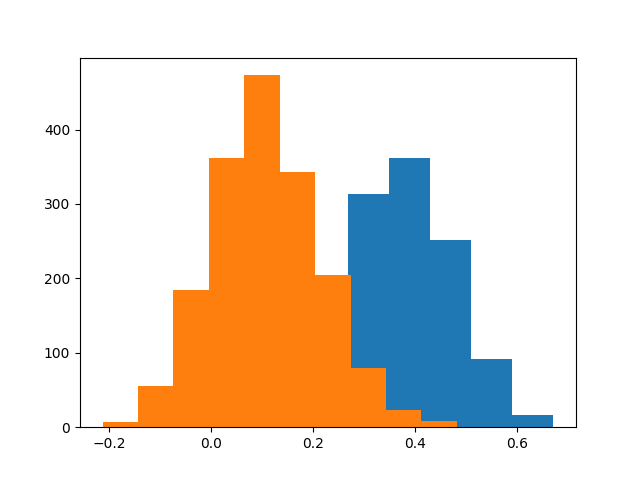
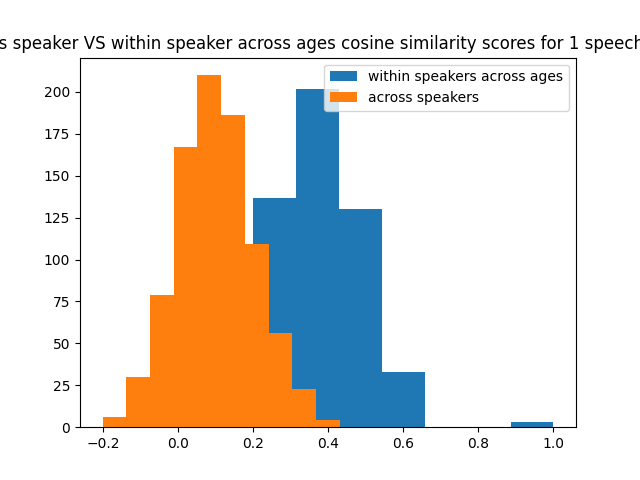
updated histograms, added aoc curves

diff --git a/scripts/embs_within_age_within_speaker.py b/scripts/embs_within_age_within_speaker.py
@@ -7,6 +7,9 @@ from sklearn.metrics.pairwise import cosine_similarity
 from functools import reduce
 import matplotlib.pyplot as plt
 import numpy as np
+from sklearn.metrics import roc_curve, auc
+from scipy.interpolate import interp1d
+from scipy.optimize import brentq
 
 scripts_dir = os.getcwd()
 os.chdir("../data")
@@ -19,16 +22,16 @@ os.chdir(scripts_dir)
 
 def get_cossim_df(num_pairs, parquet_path, save_path):
     print(f"Processing {save_path}")
-
+    #
     NUM_PAIRS = num_pairs
     df = pd.read_parquet(os.path.join(meta_dir, parquet_path))
-#
+    #
     danfs_to_use = set()
     for i in range(1, NUM_PAIRS+1):
         danfs_to_use.update(set(reduce(lambda x, y: list(x) + list(y), list(map(set, df[f"pair_{i}"].tolist())))))
-#
+    #
     dokids_to_use = set(i.split("_")[0] for i in danfs_to_use)
-#
+    #
     for speech_length in speech_lengths:
         print(f"Processing {speech_length}")
         length_dir = os.path.join(data_dir, str(speech_length))
@@ -43,26 +46,242 @@ def get_cossim_df(num_pairs, parquet_path, save_path):
         for i in range(1, NUM_PAIRS+1):
             df[f"score_{i}_{speech_length}"] = df[f"pair_{i}"].apply(lambda y: cosine_similarity(*list(map(lambda x: embs[x], y)))[0][0])
         df[f"score_mean_{speech_length}"] = df[[f"score_{i}_{speech_length}" for i in range(1, NUM_PAIRS+1)]].apply(lambda x: sum(x)/NUM_PAIRS, axis=1)
-#
-    for speech_length in speech_lengths:
-        plt.hist(df[f"score_mean_{speech_length}"].tolist())
-        plt.title(f'{(" ").join(save_path.split("_"))} cosine similarity scores for {speech_length} speech length')
-        plt.savefig(os.path.join(results_dir, f"{save_path}_{speech_length}_cossim_score.png"))
+        #
+    if GENERATE_GRAPHS:
+        for speech_length in speech_lengths:
+            plt.hist(df[f"score_mean_{speech_length}"].tolist())
+            plt.title(f'{(" ").join(save_path.split("_"))} cosine similarity scores for {speech_length} speech length')
+            plt.savefig(os.path.join(results_dir, f"{save_path}_{speech_length}_cossim_score.png"))
+            plt.close()
+        #
+        lesbian_flag = [(213, 45, 0), (239, 118, 39), (255, 154, 86), (230, 230, 230), (209, 98, 164), (181, 86, 144), (163, 2, 98)]
+        for i, speech_length in enumerate(speech_lengths):
+            plt.hist(df[f"score_mean_{speech_length}"].tolist(), label=f"{speech_length}",
+            bins=np.arange(0, 1, 0.02), color=tuple(map(lambda x: x/255, lesbian_flag[i]))),
+        plt.title(f'{(" ").join(save_path.split("_"))} cosine similarity scores')
+        plt.legend()
+        plt.savefig(os.path.join(results_dir, f"{save_path}_all_cossim_score.png"))
         plt.close()
-#
-    lesbian_flag = [(213, 45, 0), (239, 118, 39), (255, 154, 86), (230, 230, 230), (209, 98, 164), (181, 86, 144), (163, 2, 98)]
-    for i, speech_length in enumerate(speech_lengths):
-        plt.hist(df[f"score_mean_{speech_length}"].tolist(), label=f"{speech_length}",
-        bins=np.arange(0, 1, 0.02), color=tuple(map(lambda x: x/255, lesbian_flag[i]))),
-    plt.title(f'{(" ").join(save_path.split("_"))} cosine similarity scores')
-    plt.legend()
-    plt.savefig(os.path.join(results_dir, f"{save_path}_all_cossim_score.png"))
-    plt.close()
-    
+        #
     print()
     return df
 
+
+def get_best_threshold_n_roc(df_within, df_across, NUM_PAIRS=3):
+    """get metrics when comparing (across speakers) vs (within speakers at the same age)"""
+    scores = dict()
+    for speech_length in speech_lengths:
+        within_scores = list(reduce(lambda x, y: x + y, [df_within[f"score_{i}_{speech_length}"].tolist() for i in range(1, NUM_PAIRS+1)]))
+        across_scores = df_across[f"score_1_{speech_length}"].tolist()
+        across_n_within_age_scores = across_scores + within_scores
+        true_scores = [0 for _ in range(len(across_scores))] + [1 for _ in range(len(within_scores))]
+        fpr, tpr, thresholds = roc_curve(true_scores, across_n_within_age_scores, pos_label=1)
+        roc_auc = auc(fpr, tpr)
+        #
+        eer = brentq(lambda x : 1. - x - interp1d(fpr, tpr)(x), 0., 1.)
+        threshold = interp1d(fpr, thresholds)(eer)
+        threshold = float(threshold)
+        #
+        scores[f"{speech_length}"] = (threshold, (fpr, tpr, thresholds))
+        #
+        if GENERATE_GRAPHS:
+            plt.title(f'ROC curve for {speech_length} speech length')
+            plt.plot(fpr, tpr, 'b', label = 'AUC = %0.2f' % roc_auc)
+            plt.legend(loc = 'lower right')
+            plt.plot([0, 1], [0, 1],'r--')
+            plt.xlim([0, 1])
+            plt.ylim([0, 1])
+            plt.ylabel('True Positive Rate')
+            plt.xlabel('False Positive Rate')
+            plt.savefig(os.path.join(results_dir, f"within_speaker_within_age_VS_across_speaker_{speech_length}_AOC_CURVE.png"))
+            plt.close()
+            #
+    return scores
+
+
+def vary_threshold_graph(df_within, df_across, NUM_PAIRS=3):
+    """get metrics when comparing (across speakers) vs (within speakers at the same age)"""
+    scores = dict()
+    for speech_length in speech_lengths:
+        within_scores = list(reduce(lambda x, y: x + y, [df_within[f"score_{i}_{speech_length}"].tolist() for i in range(1, NUM_PAIRS+1)]))
+        within_max = max(within_scores)
+        across_scores = df_across[f"score_1_{speech_length}"].tolist()
+        across_min = min(across_scores)
+        #
+        threshold_scores = []
+        for threshold in np.arange(-0.2, 1.01, 0.01):
+            thresh_across_scores = [1 if i >= threshold else 0 for i in across_scores]
+            thresh_within_scores = [1 if i >= threshold else 0 for i in within_scores]
+            across_n_within_age_scores = thresh_across_scores + thresh_within_scores
+            true_scores = [0 for _ in range(len(thresh_across_scores))] + [1 for _ in range(len(thresh_within_scores))]
+            accuracy = sum([1 if across_n_within_age_scores[i] == true_scores[i] else 0 for i in range(len(true_scores))])/len(true_scores)
+            false_negs = sum([1 if (across_n_within_age_scores[i] != true_scores[i]) and (true_scores[i] == 1) else 0
+                              for i in range(len(true_scores))])
+            fnr = false_negs/len(thresh_within_scores)
+            false_poss = sum([1 if (across_n_within_age_scores[i] != true_scores[i]) and (true_scores[i] == 0) else 0
+                              for i in range(len(true_scores))])
+            fpr = false_poss/len(thresh_across_scores)
+            data = (threshold, accuracy, false_negs, false_poss, fnr, fpr)
+        # append data points to list
+            # the list should start with the first threshold that yields no false negatives
+            # if false_negs == 0:
+            if threshold <= across_min:
+                threshold_scores = [data]
+            # the list shold end with the last threshold that yields no false positives (I think?)
+            # elif false_poss == 0:
+            elif threshold > within_max:
+                threshold_scores.append(data)
+                break
+            else:
+                threshold_scores.append(data)
+            #
+        scores[f"{speech_length}"] = threshold_scores
+        #
+        if GENERATE_GRAPHS:
+            fig, ax = plt.subplots()
+            thresholds = [i[0] for i in threshold_scores]
+            accs = [i[1] for i in threshold_scores]
+            fnrs = [i[4] for i in threshold_scores]
+            fprs = [i[5] for i in threshold_scores]
+            #
+            ax.plot(thresholds, accs, color="red", label="accuracy")
+            ax.set_xlabel("threshold", fontsize = 14)
+            ax.set_ylabel("accuracy",
+                        color="red",
+                        fontsize=14)
+            ax.set_ylim(top=1.024396551724138)
+            ax.spines['left'].set_color('red')
+            ax.yaxis.label.set_color('red')
+            ax.tick_params(axis='y', colors='red')
+            plt.legend(loc="upper right")
+            #
+            ax2 = ax.twinx()
+            ax2.plot(thresholds, fnrs, label="fnr")
+            ax2.set_ylabel("fnr/fpr",color="black",fontsize=14)
+            #
+            ax2.plot(thresholds, fprs, color="orange", label="fpr")
+            ax2.set_ylim(top=1.024396551724138)
+            plt.legend()
+            plt.title(f"Accuracy VS FNR/FNR at different thresholds for {speech_length} speech length")
+            fig.savefig(os.path.join(results_dir, f'within_age_within_age_VS_across_speaker_{speech_length}_acc_vs_fnr_n_fpr.png'),
+                        format='png',
+                        dpi=100,
+                        bbox_inches='tight')
+            #
+    return scores
+
+
+def add_threshold_accs_to_df(within_age_df, across_age_df, across_speaker_df, thresholds, num_pairs=3):
+    for speech_length in speech_lengths:
+        threshold = thresholds[f"{speech_length}"][0]
+        for i in range(1, num_pairs+1):
+            across_age_df[f"thresh_score_{i}_{speech_length}"] = across_age_df[f"score_{i}_{speech_length}"].apply(
+                lambda x: 1 if x >= threshold else 0)
+        for i in range(1, num_pairs+1):
+            within_age_df[f"thresh_score_{i}_{speech_length}"] = within_age_df[f"score_{i}_{speech_length}"].apply(
+                lambda x: 1 if x >= threshold else 0)
+        across_speaker_df[f"thresh_score_1_{speech_length}"] = across_speaker_df[f"score_1_{speech_length}"].apply(
+            lambda x: 1 if x >= threshold else 0)
+
+
+def overall_accuracy(across_age_df, across_speaker_df, thresholds, num_pairs=3):
+    scores = dict()
+    for speech_length in speech_lengths:
+        threshold = thresholds[f"{speech_length}"][0]
+        #
+        across_age_preds = list(reduce(lambda x, y: x + y, 
+                                        [across_age_df[f"thresh_score_{i}_{speech_length}"].tolist() for i in range(1, num_pairs+1)]))
+        across_speaker_preds = across_speaker_df[f"thresh_score_1_{speech_length}"].tolist()
+        #
+        all_preds = across_age_preds + across_speaker_preds
+        all_true = [1 for _ in range(len(across_age_preds))] + [0 for _ in range(len(across_speaker_preds))]
+        #
+        accuracy = sum([1 if all_preds[i] == all_true[i] else 0 for i in range(len(all_true))])/len(all_true)
+        #
+        false_negs = sum([1 if (all_preds[i] != all_true[i]) and (all_true[i] == 1) else 0
+                            for i in range(len(all_true))])
+        fnr = false_negs/len(across_age_preds)
+        #
+        false_poss = sum([1 if (all_preds[i] != all_true[i]) and (all_true[i] == 0) else 0
+                            for i in range(len(all_true))])
+        fpr = false_poss/len(across_speaker_preds)
+        #
+        data = (threshold, accuracy, false_negs, false_poss, fnr, fpr)
+        scores[f"{speech_length}"] = data
+    return scores
+
+
+def across_ages_accuracy(across_age_df, across_speaker_df, thresholds, num_pairs=3):
+    scores = dict()
+    across_age_df["age_diff"] = across_age_df[["age1", "age2"]].apply(lambda x: x.age2-x.age1, axis=1)
+    across_speaker_df["age_diff"] = across_speaker_df[["age1", "age2"]].apply(lambda x: x.age2-x.age1, axis=1)
+    for speech_length in speech_lengths:
+        sub_scores = dict()
+        threshold = thresholds[f"{speech_length}"][0]
+        for age_diff in range(0, 9+1):
+            across_age_preds = list(reduce(lambda x, y: x + y, 
+                                            [across_age_df[across_age_df["age_diff"] == age_diff]
+                                            [f"thresh_score_{i}_{speech_length}"].tolist() for i in range(1, num_pairs+1)]))
+            across_speaker_preds = across_speaker_df[across_speaker_df["age_diff"] == age_diff][f"thresh_score_1_{speech_length}"].tolist()
+            #
+            all_preds = across_age_preds + across_speaker_preds
+            all_true = [1 for _ in range(len(across_age_preds))] + [0 for _ in range(len(across_speaker_preds))]
+            #
+            accuracy = sum([1 if all_preds[i] == all_true[i] else 0 for i in range(len(all_true))])/len(all_true)
+            #
+            false_negs = sum([1 if (all_preds[i] != all_true[i]) and (all_true[i] == 1) else 0
+                                for i in range(len(all_true))])
+            fnr = false_negs/len(across_age_preds)
+            #
+            false_poss = sum([1 if (all_preds[i] != all_true[i]) and (all_true[i] == 0) else 0
+                                for i in range(len(all_true))])
+            fpr = false_poss/len(across_speaker_preds)
+            #
+            data = (threshold, accuracy, false_negs, false_poss, fnr, fpr)
+            sub_scores[f"{age_diff}"] = data
+        scores[f"{speech_length}"] = sub_scores
+    return scores
+
+
+def per_bucket_accuracy(df_within, df_across, thresholds, num_pairs=3, bucket_size=5):
+    scores = dict()
+    min_age = df_across.age1.min()
+    if "age" in df_within.columns:
+        df_within["bucket"] = df_within["age"].apply(lambda x: (x-min_age)//bucket_size)
+    else:
+        df_within["bucket"] = df_within["age1"].apply(lambda x: (x-min_age)//bucket_size)
+    df_across["bucket"] = df_across["age1"].apply(lambda x: (x-min_age)//bucket_size)
+    num_buckets = df_within.bucket.max()
+    for speech_length in speech_lengths:
+        sub_scores = dict()
+        threshold = thresholds[f"{speech_length}"][0]
+        for bucket in range(num_buckets):
+            within_speaker_preds = list(reduce(lambda x, y: x + y, 
+                                            [df_within[df_within["bucket"] == bucket][f"thresh_score_{i}_{speech_length}"].tolist() for i in range(1, num_pairs+1)]))
+            across_speaker_preds = df_across[df_across["bucket"] == bucket][f"thresh_score_1_{speech_length}"].tolist()
+            #
+            all_preds = within_speaker_preds + across_speaker_preds
+            all_true = [1 for _ in range(len(within_speaker_preds))] + [0 for _ in range(len(across_speaker_preds))]
+            #
+            accuracy = sum([1 if all_preds[i] == all_true[i] else 0 for i in range(len(all_true))])/len(all_true)
+            #
+            false_negs = sum([1 if (all_preds[i] != all_true[i]) and (all_true[i] == 1) else 0
+                                for i in range(len(all_true))])
+            fnr = false_negs/len(within_speaker_preds)
+            #
+            false_poss = sum([1 if (all_preds[i] != all_true[i]) and (all_true[i] == 0) else 0
+                                for i in range(len(all_true))])
+            fpr = false_poss/len(across_speaker_preds)
+            #
+            data = (threshold, accuracy, false_negs, false_poss, fnr, fpr)
+            sub_scores[f"{bucket}"] = data
+        scores[f"{speech_length}"] = sub_scores
+    return scores
+
+
 speech_lengths = ["full", 60, 30, 10, 5, 3, 1]
+NUM_PAIRS = 3
+GENERATE_GRAPHS = False
 
 across_age_df = get_cossim_df(num_pairs=3,
                               parquet_path="within_speaker_across_age_comparisons.parquet",
@@ -76,23 +295,65 @@ across_speaker_df = get_cossim_df(num_pairs=1,
                                   parquet_path="across_speaker_comparisons.parquet",
                                   save_path="across_speaker")
 
-NUM_PAIRS = 3
-for speech_length in speech_lengths:
-    plt.hist(list(reduce(lambda x, y: x + y, [across_age_df[f"score_{i}_{speech_length}"].tolist() for i in range(1, NUM_PAIRS)])),
-             label="within speakers across ages")
-    plt.hist(across_speaker_df[f"score_1_{speech_length}"].tolist(),
-             label="across speakers")
-    plt.legend()
-    plt.title(f'across speaker VS within speaker across ages cosine similarity scores for {speech_length} speech length')
-    plt.savefig(os.path.join(results_dir, f"withiin_speaker_across_age_VS_across_speaker_{speech_length}_cossim_score.png"))
-    plt.close()
+if GENERATE_GRAPHS:
+    for speech_length in speech_lengths:
+        plt.hist(list(reduce(lambda x, y: x + y, [across_age_df[f"score_{i}_{speech_length}"].tolist() for i in range(1, NUM_PAIRS)])),
+                label="within speakers across ages")
+        plt.hist(across_speaker_df[f"score_1_{speech_length}"].tolist(),
+                label="across speakers")
+        plt.legend()
+        plt.title(f'across speaker VS within speaker across ages cosine similarity scores for {speech_length} speech length')
+        plt.savefig(os.path.join(results_dir, f"within_speaker_across_age_VS_across_speaker_{speech_length}_cossim_score.png"))
+        plt.close()
+#
+    for speech_length in speech_lengths:
+        plt.hist(list(reduce(lambda x, y: x + y, [within_age_df[f"score_{i}_{speech_length}"].tolist() for i in range(1, NUM_PAIRS)])),
+                label="within speakers within ages")
+        plt.hist(across_speaker_df[f"score_1_{speech_length}"].tolist(),
+                label="across speakers")
+        plt.legend()
+        plt.title(f'across speaker VS within speaker within ages cosine similarity scores for {speech_length} speech length')
+        plt.savefig(os.path.join(results_dir, f"within_speaker_within_age_VS_across_speaker_{speech_length}_cossim_score.png"))
+        plt.close()
 
-for speech_length in speech_lengths:
-    plt.hist(list(reduce(lambda x, y: x + y, [within_age_df[f"score_{i}_{speech_length}"].tolist() for i in range(1, NUM_PAIRS)])),
-             label="within speakers within ages")
-    plt.hist(across_speaker_df[f"score_1_{speech_length}"].tolist(),
-             label="across speakers")
-    plt.legend()
-    plt.title(f'across speaker VS within speaker within ages cosine similarity scores for {speech_length} speech length')
-    plt.savefig(os.path.join(results_dir, f"within_speaker_within_age_VS_across_speaker_{speech_length}_cossim_score.png"))
-    plt.close()
+scores = get_best_threshold_n_roc(within_age_df, across_speaker_df, 3)
+thresh_scores = vary_threshold_graph(within_age_df, across_speaker_df, 3)
+add_threshold_accs_to_df(within_age_df, across_age_df, across_speaker_df, scores, 3)
+overall_accuracies = overall_accuracy(across_age_df, across_speaker_df, scores, 3)
+across_ages_accuracies = across_ages_accuracy(across_age_df, across_speaker_df, scores, 3)
+within_ages_bucket_accuracies = per_bucket_accuracy(within_age_df, across_speaker_df, thresholds, num_pairs=3)
+across_ages_bucket_accuracies = per_bucket_accuracy(across_age_df, across_speaker_df, thresholds, num_pairs=3)
+
+# print overall_accuracies
+if True:
+    print(f"{'length':>6}\t{'threshold':>9}\t{'accuracy':>8}\t{'false_negs':>10}\t{'false_poss':>10}\t{'fnr':>5}\t{'fpr':>5}")
+    for key, value in overall_accuracies.items(): 
+        print(f"{key:>6}\t{value[0]*100:>9.2f}\t{value[1]*100:>8.2f}\t{value[2]:>10}\t{value[3]:>10}\t{value[4]*100:>5.2f}\t{value[5]*100:>5.2f}")
+    print()
+
+# print across_ages_accuracies
+if True:
+    print("-"*(6+9+9+8+10+10+5+5+(7*7)))
+    for key, value in across_ages_accuracies.items():
+        print(f"{'length':>6}\t{'age range':>9}\t{'threshold':>9}\t{'accuracy':>8}\t{'false_negs':>10}\t{'false_poss':>10}\t{'fnr':>5}\t{'fpr':>5}")
+        for age_key, age_value in value.items():
+            print(f"{key:>6}\t{age_key:>9}\t{age_value[0]*100:>9.2f}\t{age_value[1]*100:>8.2f}\t{age_value[2]:>10}\t{age_value[3]:>10}\t{age_value[4]*100:>5.2f}\t{age_value[5]*100:>5.2f}")
+        print("-"*(6+9+9+8+10+10+5+5+(7*7)))
+
+# print within_ages_bucket_accuracies
+if True:
+    print("-"*(6+6+9+8+10+10+5+5+(7*7)))
+    for key, value in within_ages_bucket_accuracies.items():
+        print(f"{'length':>6}\t{'bucket':>6}\t{'threshold':>9}\t{'accuracy':>8}\t{'false_negs':>10}\t{'false_poss':>10}\t{'fnr':>5}\t{'fpr':>5}")
+        for bucket_key, bucket_value in value.items():
+            print(f"{key:>6}\t{bucket_key:>6}\t{bucket_value[0]*100:>9.2f}\t{bucket_value[1]*100:>8.2f}\t{bucket_value[2]:>10}\t{bucket_value[3]:>10}\t{bucket_value[4]*100:>5.2f}\t{bucket_value[5]*100:>5.2f}")
+        print("-"*(6+6+9+8+10+10+5+5+(7*7)))
+
+# print across_ages_bucket_accuracies
+if True:
+    print("-"*(6+6+9+8+10+10+5+5+(7*7)))
+    for key, value in across_ages_bucket_accuracies.items():
+        print(f"{'length':>6}\t{'bucket':>6}\t{'threshold':>9}\t{'accuracy':>8}\t{'false_negs':>10}\t{'false_poss':>10}\t{'fnr':>5}\t{'fpr':>5}")
+        for bucket_key, bucket_value in value.items():
+            print(f"{key:>6}\t{bucket_key:>6}\t{bucket_value[0]*100:>9.2f}\t{bucket_value[1]*100:>8.2f}\t{bucket_value[2]:>10}\t{bucket_value[3]:>10}\t{bucket_value[4]*100:>5.2f}\t{bucket_value[5]*100:>5.2f}")
+        print("-"*(6+6+9+8+10+10+5+5+(7*7)))
